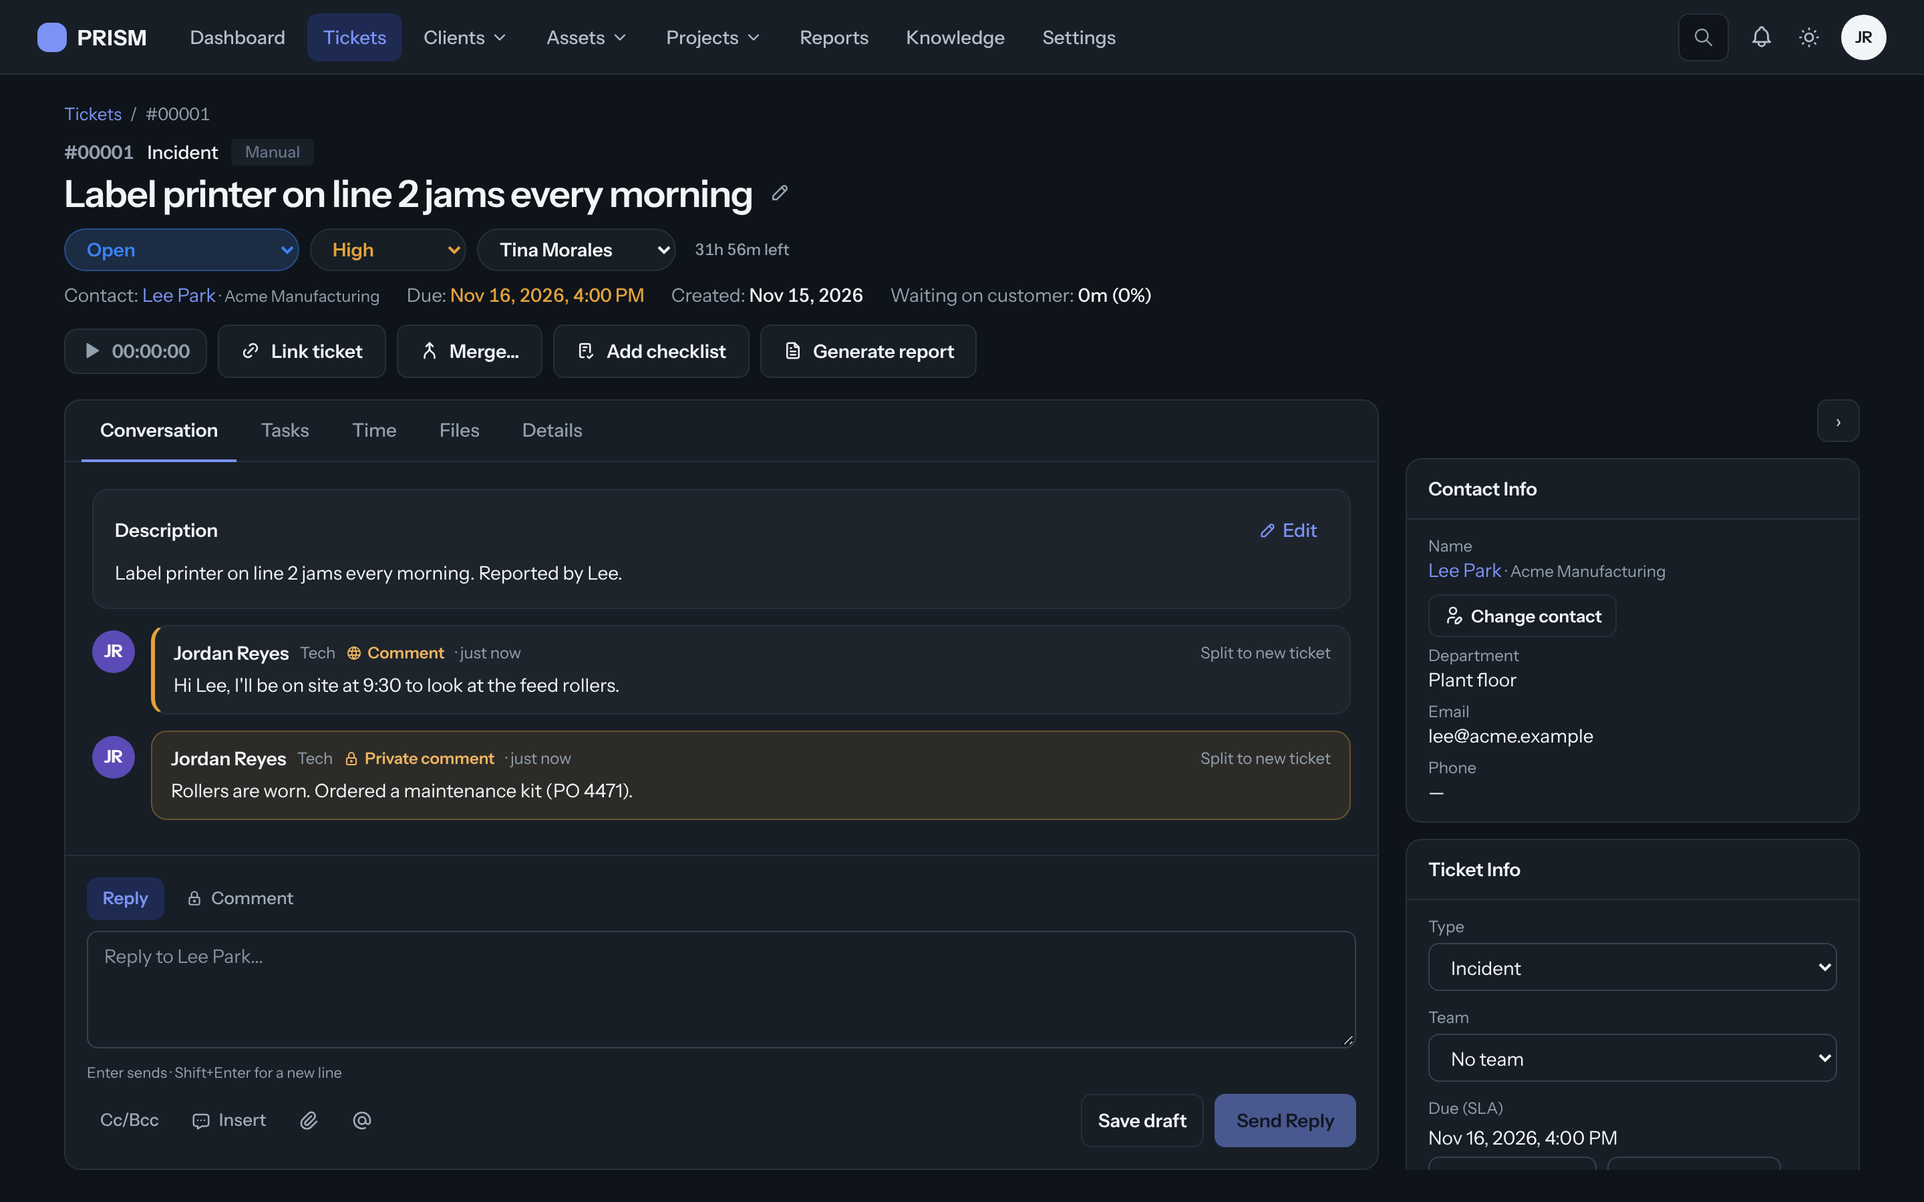
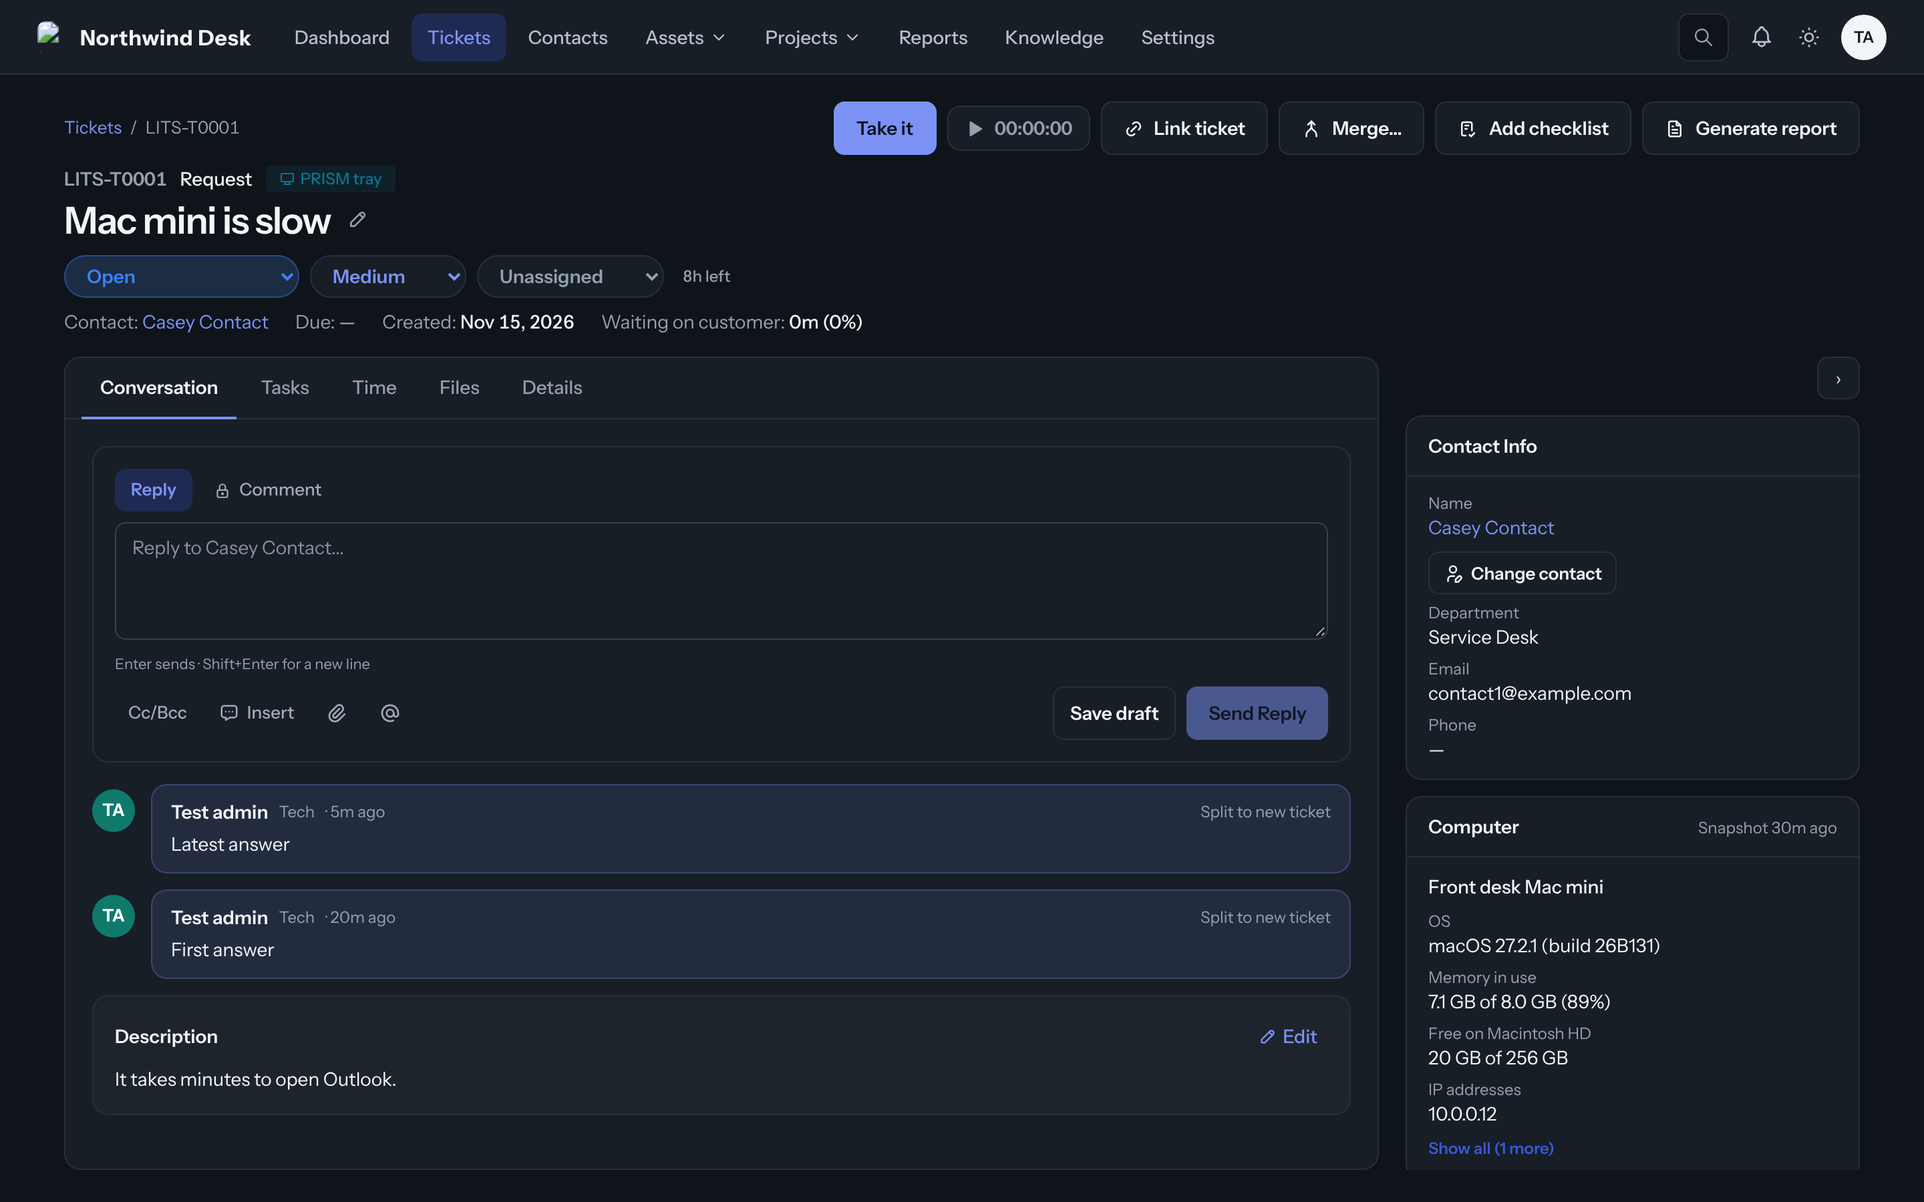
feat(tickets): the conversation reads newest first, with room to read it
The reply box sits at the top of the conversation and scrolls with it (no
longer pinned under the thread); messages run newest first, older ones load
at the bottom, and the description closes the thread. Take it, the timer and
the ticket actions move up beside the breadcrumb, freeing a row.

A tray ticket's health snapshot moves out of the thread into a Computer card
in the sidebar (the main lines, the rest behind Show all); the ticket carries
it as agentSnapshot for viewers who may read private notes.

Also: the merged-into banner shows the ticket's company number.

Claude-Session: https://claude.ai/code/session_01N1XSQJXfuiqSmw46Y3FNwN

diff --git a/frontend/src/pages/tickets/TicketDetail.jsx b/frontend/src/pages/tickets/TicketDetail.jsx
@@ -582,6 +582,24 @@ export default function TicketDetail() {
               Ticket info
             </button>
             <ActionsMenu items={headerActions} className="flex-shrink-0 md:hidden" />
+            {/* Desk: what you do with the ticket, beside the breadcrumb, so
+                the conversation below gets the room. */}
+            <div className="flex flex-wrap items-center justify-end gap-2 max-md:hidden">
+              {ticket.access?.canTake && (
+                <Button variant="primary" onClick={takeTicket} disabled={taking}>
+                  {taking ? 'Taking…' : 'Take it'}
+                </Button>
+              )}
+              {hasPermission('time.log') && (
+                <TimerButton kind="ticket" parentId={ticket.id} label={`${formatTicketId(ticket)} ${ticket.title}`} onStopRequest={setStoppedTimer} anyTask />
+              )}
+              {headerActions.map(({ label, icon: Icon, onSelect }) => (
+                <Button key={label} onClick={onSelect}>
+                  <Icon size={15} aria-hidden="true" />
+                  {label}
+                </Button>
+              ))}
+            </div>
           </div>
         </div>
         <div className="mt-2 flex flex-wrap items-center gap-x-2.5 gap-y-1.5 text-sm">
@@ -624,27 +642,17 @@ export default function TicketDetail() {
               </span>
             )}
           </div>
-          <div className="flex w-full flex-wrap items-center gap-2 md:w-auto">
+          {/* On a phone: Take it and the timer under the details (the rest are
+              in the ⋯ menu). On a desk they're up by the breadcrumb. */}
+          <div className="flex w-full flex-wrap items-center gap-2 md:hidden">
             {ticket.access?.canTake && (
               <Button variant="primary" onClick={takeTicket} disabled={taking}>
                 {taking ? 'Taking…' : 'Take it'}
               </Button>
             )}
             {hasPermission('time.log') && (
-              <TimerButton
-                kind="ticket"
-                parentId={ticket.id}
-                label={`${formatTicketId(ticket)} ${ticket.title}`}
-                onStopRequest={setStoppedTimer}
-                anyTask
-              />
+              <TimerButton kind="ticket" parentId={ticket.id} label={`${formatTicketId(ticket)} ${ticket.title}`} onStopRequest={setStoppedTimer} anyTask />
             )}
-            {headerActions.map(({ label, icon: Icon, onSelect }) => (
-              <Button key={label} onClick={onSelect} className="max-md:hidden">
-                <Icon size={15} aria-hidden="true" />
-                {label}
-              </Button>
-            ))}
           </div>
         </div>
       </header>
@@ -736,10 +744,11 @@ export default function TicketDetail() {
           </div>
 
           <div className="p-4 sm:p-5" style={{ flex: '1 1 auto', overflowY: 'auto', minHeight: 0 }}>
-            {/* The problem as it was raised opens the conversation. */}
+            {/* Newest first: the reply box, then the thread from the latest
+                message down, and the problem as it was raised at the bottom. */}
             {activeTab === 'conversation' && (
-              <div className="mb-3">
-                <DescriptionCard description={ticket.description} canEdit={isStaff && !!ticket.access?.edit} onSave={saveTicketText} />
+              <div className="mb-4">
+                <ReplyBox ticket={ticket} onSend={sendReply} fileRef={fileRef} onAttach={handleReplyAttach} isStaff={isStaff} canViewPrivateComments={canViewPrivateComments} collapsible={isPhone} />
               </div>
             )}
             {activeTab === 'conversation' && (
@@ -750,6 +759,11 @@ export default function TicketDetail() {
                 onLoadMore={() => setCommentLimit((n) => n + SUBLIST_STEP)}
                 onSplit={isStaff && ticket.access?.edit ? splitComment : undefined}
               />
+            )}
+            {activeTab === 'conversation' && (commentTotal <= comments.length) && (
+              <div className="mt-3">
+                <DescriptionCard description={ticket.description} canEdit={isStaff && !!ticket.access?.edit} onSave={saveTicketText} />
+              </div>
             )}
             {activeTab === 'time' && (
               <TimeLog
@@ -819,11 +833,6 @@ export default function TicketDetail() {
             )}
           </div>
 
-          {/* Sibling below the scrollable tab content, not inside it — stays
-              pinned to the bottom of the main content column. */}
-          {activeTab === 'conversation' && (
-            <ReplyBox ticket={ticket} onSend={sendReply} fileRef={fileRef} onAttach={handleReplyAttach} isStaff={isStaff} canViewPrivateComments={canViewPrivateComments} collapsible={isPhone} />
-          )}
         </div>
 
         <div className="hidden md:contents">

diff --git a/backend/test/smoke/ticketConversation.smoke.js b/backend/test/smoke/ticketConversation.smoke.js
@@ -1,0 +1,48 @@
+const { resetData, closeDb, models } = require('../integration/helpers');
+const { makeWorld, makeTicket } = require('../integration/fixtures');
+const { startSmoke } = require('./harness');
+
+// The conversation reads newest first: the reply box on top, then the latest
+// message, the oldest, and the description at the bottom. A tray ticket's
+// health snapshot is in the sidebar's Computer card, not the thread.
+
+let smoke;
+let ticket;
+const DESKTOP = { viewport: { width: 1440, height: 900 } };
+beforeAll(async () => {
+  smoke = await startSmoke();
+  await resetData();
+  const w = await makeWorld();
+  ticket = await makeTicket(w.admin.agent, {
+    title: 'Mac mini is slow', description: 'It takes minutes to open Outlook.', contactId: w.contact.id, departmentId: w.deptA.id,
+  });
+  await models.Ticket.update({ source: 'agent' }, { where: { id: ticket.id }, hooks: false });
+  const at = (min) => new Date(Date.now() - min * 60000);
+  await models.Comment.create({
+    ticketId: ticket.id, authorId: w.admin.user.id, type: 'comment_private', createdAt: at(30),
+    body: 'Health snapshot from Front desk Mac mini\nOS: macOS 27.2.1 (build 26B131)\nMemory in use: 7.1 GB of 8.0 GB (89%)\nFree on Macintosh HD: 20 GB of 256 GB\nBattery: not present\nIP addresses: 10.0.0.12',
+  });
+  await models.Comment.create({ ticketId: ticket.id, authorId: w.admin.user.id, type: 'reply', body: 'First answer', createdAt: at(20) });
+  await models.Comment.create({ ticketId: ticket.id, authorId: w.admin.user.id, type: 'reply', body: 'Latest answer', createdAt: at(5) });
+});
+afterAll(async () => { await smoke.stop(); await closeDb(); });
+
+it('reply box first, newest message next, description last; the snapshot is the Computer card', async () => {
+  const page = await smoke.pageAs('admin', undefined, DESKTOP);
+  await page.goto(`/tickets/${ticket.id}`);
+  await page.getByText('Latest answer').waitFor();
+  const order = await page.evaluate(() => {
+    const text = document.body.innerText;
+    return ['Save draft', 'Latest answer', 'First answer', 'It takes minutes to open Outlook.'].map((s) => text.indexOf(s));
+  });
+  expect(order.every((n) => n >= 0)).toBe(true);
+  expect([...order].sort((a, b) => a - b)).toEqual(order);
+  // Not in the thread; in the Computer card instead.
+  expect(await page.getByText('Health snapshot from').count()).toBe(0);
+  const card = page.getByRole('region', { name: 'Computer' });
+  await card.getByText('Front desk Mac mini').waitFor();
+  await card.getByText('macOS 27.2.1 (build 26B131)').waitFor();
+  expect(await card.getByText('Battery').count()).toBe(0);
+  await card.getByRole('button', { name: /Show all/ }).click();
+  await card.getByText('not present').waitFor();
+});

diff --git a/backend/src/controllers/tickets/shared.js b/backend/src/controllers/tickets/shared.js
@@ -16,6 +16,7 @@ const {
   SlaPolicy,
   TicketDueDateChange,
   Ticket,
+  Comment,
 } = require('../../models');
 const { toSlaView } = require('../../services/sla/slaView');
 const { ticketWaitingView } = require('../../services/ticketWaiting');
@@ -210,8 +211,32 @@ async function assertCanEditTicket(user, ticket) {
 // server re-checks every request).
 // The ticket as GET /tickets/:id returns it: the viewer's view, its access
 // flags, and on its SLA the due date history.
+// The PRISM agent's health snapshot (a private note "Health snapshot from
+// <computer>" of "Label: value" lines), for the ticket's sidebar rather than
+// the conversation. Only for viewers who may read private notes.
+const SNAPSHOT_PREFIX = 'Health snapshot from ';
+async function agentSnapshotFor(viewer, ticket) {
+  if (ticket.source !== 'agent') return null;
+  if (!(await hasPermission(viewer.id, 'tickets.view_private_comments'))) return null;
+  const note = await Comment.findOne({
+    where: { ticketId: ticket.id, type: 'comment_private', body: { [Op.startsWith]: SNAPSHOT_PREFIX } },
+    attributes: ['id', 'body', 'createdAt'],
+    order: [['id', 'ASC']],
+  });
+  if (!note) return null;
+  const [first, ...rest] = String(note.body).split('\n');
+  const items = rest.map((l) => {
+    const at = l.indexOf(': ');
+    return at > 0 ? { label: l.slice(0, at), value: l.slice(at + 2) } : null;
+  }).filter(Boolean);
+  return {
+    commentId: note.id, createdAt: note.createdAt, computer: first.slice(SNAPSHOT_PREFIX.length), items,
+  };
+}
+
 async function ticketDetailFor(viewer, ticket) {
   const json = await shownTicketFor(viewer, ticket);
+  json.agentSnapshot = await agentSnapshotFor(viewer, ticket);
   if (ticket.sla) {
     const changes = await TicketDueDateChange.findAll({
       where: { ticketId: ticket.id },
@@ -226,7 +251,7 @@ async function ticketDetailFor(viewer, ticket) {
   json.mergedInto = null;
   if (ticket.mergedIntoId) {
     const into = await Ticket.findByPk(ticket.mergedIntoId, { attributes: ['id', 'number', 'title', 'companyId', 'departmentId', 'assigneeId'] });
-    if (into) json.mergedInto = (await canAccessTicket(viewer, into)) ? { id: into.id, title: into.title } : { id: into.id };
+    if (into) json.mergedInto = (await canAccessTicket(viewer, into)) ? { id: into.id, ticketNumber: into.number, title: into.title } : { id: into.id, ticketNumber: into.number };
   }
   return { ...json, access: await ticketAccessFor(viewer, ticket) };
 }
@@ -247,6 +272,7 @@ module.exports = {
   assertCanEditTicket,
   shownTicketFor,
   ticketDetailFor,
+  SNAPSHOT_PREFIX,
   ticketAccessFor,
   ticketInclude,
   withCustomFields,

diff --git a/backend/test/integration/agent.tray.test.js b/backend/test/integration/agent.tray.test.js
@@ -1,6 +1,7 @@
 const Sequelize = require('sequelize');
 const {
   resetData, closeDb, models, getApp, sequelize,
+  createUserAndLogin, ROLE,
 } = require('./helpers');
 const { makeWorld, makeCompany } = require('./fixtures');
 const { resetRateLimits } = require('../../src/middleware/rateLimit');
@@ -192,4 +193,23 @@ it('round trip: down removes the mark and keeps the contacts; up puts the column
   expect(Number(rows[0].n)).toBe(1);
   await migration.up(qi, Sequelize);
   expect((await qi.describeTable('Contacts')).isPlaceholder).toBeDefined();
+});
+
+it('the ticket carries the snapshot for its sidebar, only for those who may read private notes', async () => {
+  await contactIn(company, 'maria.chen@riversideclinic.org');
+  const res = await device.post(TICKETS, ask());
+  const { ticket } = (await w.admin.agent.get(`/api/v1/tickets/${res.body.ticketId}`)).body;
+  const note = await models.Comment.findOne({ where: { ticketId: res.body.ticketId } });
+  expect(ticket.agentSnapshot).toEqual(expect.objectContaining({ commentId: note.id, computer: expect.any(String) }));
+  const byLabel = Object.fromEntries(ticket.agentSnapshot.items.map((i) => [i.label, i.value]));
+  expect(byLabel).toEqual(expect.objectContaining({
+    OS: 'Windows 11 Pro 24H2 (build 26100.2314)', 'Memory in use': '11.0 GB of 16.0 GB (69%)', 'Free on C:': '212 GB of 476 GB', 'IP addresses': '10.20.1.45',
+  }));
+  // A ticket made by hand has none.
+  const own = (await w.admin.agent.post('/api/v1/tickets').send({ title: 'By hand', contactId: w.contact.id })).body.ticket;
+  expect((await w.admin.agent.get(`/api/v1/tickets/${own.id}`)).body.ticket.agentSnapshot).toBeNull();
+  // Read Only can't see private notes: no snapshot either.
+  const viewer = await createUserAndLogin({ username: 'viewer', roleName: ROLE.READ_ONLY, departmentId: w.deptA.id });
+  const seen = await viewer.agent.get(`/api/v1/tickets/${res.body.ticketId}`);
+  if (seen.status === 200) expect(seen.body.ticket.agentSnapshot).toBeNull();
 });

diff --git a/frontend/src/pages/tickets/detail/ComputerCard.jsx b/frontend/src/pages/tickets/detail/ComputerCard.jsx
@@ -1,0 +1,40 @@
+// The PRISM agent's health snapshot of the computer a tray ticket came from:
+// the lines a tech looks at first, the rest one click away. Out of the
+// conversation, so the thread is only what people wrote.
+import { useState } from 'react';
+import { MUTED, TEXT, timeAgo } from '../theme';
+
+const FIRST = ['OS', 'Memory in use', 'Uptime', 'Signed in', 'IP addresses'];
+
+export default function ComputerCard({ snapshot }) {
+  const [all, setAll] = useState(false);
+  if (!snapshot) return null;
+  const items = snapshot.items || [];
+  const isFirst = (i) => FIRST.includes(i.label) || (/^Free on /.test(i.label) && items.find((x) => /^Free on /.test(x.label)) === i);
+  const shown = all ? items : items.filter(isFirst);
+  const more = items.length - items.filter(isFirst).length;
+  return (
+    <section className="rounded-xl border border-navy-100 bg-surface" aria-label="Computer">
+      <div className="flex items-baseline justify-between gap-2 border-b border-navy-100 px-4 py-3">
+        <h3 className="text-sm font-semibold text-navy-900">Computer</h3>
+        <span className="text-xs" style={{ color: MUTED }} title="When the PRISM agent took this snapshot">Snapshot {timeAgo(snapshot.createdAt)}</span>
+      </div>
+      <div className="px-4 py-3">
+        <p className="mb-2 break-words text-sm font-medium" style={{ color: TEXT }}>{snapshot.computer}</p>
+        <dl className="space-y-1.5 text-sm">
+          {shown.map((i) => (
+            <div key={i.label}>
+              <dt className="text-xs" style={{ color: MUTED }}>{i.label}</dt>
+              <dd className="break-words" style={{ color: TEXT }}>{i.value}</dd>
+            </div>
+          ))}
+        </dl>
+        {more > 0 && (
+          <button type="button" onClick={() => setAll((v) => !v)} className="mt-2 text-xs font-semibold text-prism hover:underline">
+            {all ? 'Show less' : `Show all (${more} more)`}
+          </button>
+        )}
+      </div>
+    </section>
+  );
+}

diff --git a/frontend/src/pages/tickets/detail/ConversationTab.jsx b/frontend/src/pages/tickets/detail/ConversationTab.jsx
@@ -1,4 +1,6 @@
-// Conversation tab: the comment thread.
+// Conversation tab: the comment thread, newest first (the reply box sits
+// above it); older messages load at the bottom. The PRISM agent's health
+// snapshot isn't a message: it's in the sidebar's Computer card.
 import { IconLock, IconWorld, IconMail } from '@tabler/icons-react';
 import LoadMore from '../../../components/LoadMore';
 import Avatar from '../../../components/ui/Avatar';
@@ -9,13 +11,11 @@ import { TEXT, MUTED, timeAgo } from '../theme';
 export function ConversationTab({
   ticket, comments, total, onLoadMore, onSplit,
 }) {
+  const shown = [...comments].reverse().filter((c) => !(ticket.agentSnapshot && c.id === ticket.agentSnapshot.commentId));
   return (
     <div className="space-y-3">
-      {/* Older messages sit above the thread, where they'd be if they were
-          already loaded. */}
-      <LoadMore loaded={comments.length} total={total} onLoadMore={onLoadMore} noun="messages" />
-      {comments.length === 0 && <p className="text-sm" style={{ color: MUTED }}>No messages yet.</p>}
-      {comments.map((c) => {
+      {shown.length === 0 && <p className="text-sm" style={{ color: MUTED }}>No messages yet.</p>}
+      {shown.map((c) => {
         // A customer reply (portal or email) is marked; a portal reply also
         // names the contact who wrote it.
         const isCustomer = !!c.fromCustomer || !!c.authorContact || c.authorId === ticket.requesterId;
@@ -75,6 +75,8 @@ export function ConversationTab({
           </div>
         );
       })}
+      {/* Older messages are below, where they'd be if they were already loaded. */}
+      <LoadMore loaded={comments.length} total={total} onLoadMore={onLoadMore} noun="messages" />
     </div>
   );
 }

diff --git a/frontend/src/pages/tickets/detail/ReplyBox.jsx b/frontend/src/pages/tickets/detail/ReplyBox.jsx
@@ -12,6 +12,9 @@ import CannedPicker from '../../../components/CannedPicker';
 export function ReplyBox({
   ticket, onSend, fileRef, onAttach, isStaff, canViewPrivateComments, collapsible = false,
 }) {
+  // It sits at the top of the conversation, above the newest message, and
+  // scrolls with it (not pinned under the thread).
+  const box = 'rounded-xl border border-navy-100 bg-surface';
   const draftKey = `prism.ticket.${ticket.id}.draft`;
   const [text, setText] = useState(() => { try { return localStorage.getItem(draftKey) || ''; } catch { return ''; } });
   const [mode, setMode] = useState('reply'); // 'reply' | 'comment'
@@ -76,7 +79,7 @@ export function ReplyBox({
 
   if (!open) {
     return (
-      <div className="flex-shrink-0 border-t border-navy-100 bg-surface p-3">
+      <div className={`${box} p-3`}>
         {/* Looks like a one-line field; it is the button that opens the composer. */}
         <button
           type="button"
@@ -92,7 +95,7 @@ export function ReplyBox({
   }
 
   return (
-    <div className="flex-shrink-0 border-t border-navy-100 bg-surface p-3 sm:p-4">
+    <div className={`${box} p-3 sm:p-4`}>
       {(isStaff || collapsible) && (
         <div className="mb-2 flex flex-wrap items-center justify-between gap-2">
           {isStaff ? (

diff --git a/backend/test/integration/tickets.merge.test.js b/backend/test/integration/tickets.merge.test.js
@@ -209,8 +209,8 @@ describe('POST /tickets/:id/merge', () => {
     const s = await ticket({ assigneeId: olly.user.id });
     expectOk(await merge(w.admin.agent, target.id, [s.id]));
     expect(expectOk(await w.admin.agent.get(`${API}/tickets/${s.id}`)).ticket.mergedInto)
-      .toEqual({ id: target.id, title: 'Secret target' });
-    expect(expectOk(await olly.agent.get(`${API}/tickets/${s.id}`)).ticket.mergedInto).toEqual({ id: target.id });
+      .toEqual({ id: target.id, ticketNumber: target.ticketNumber, title: 'Secret target' });
+    expect(expectOk(await olly.agent.get(`${API}/tickets/${s.id}`)).ticket.mergedInto).toEqual({ id: target.id, ticketNumber: target.ticketNumber });
     expect(expectOk(await w.admin.agent.get(`${API}/tickets/${target.id}`)).ticket.mergedInto).toBeNull();
   });
 

diff --git a/frontend/src/pages/tickets/detail/Sidebar.jsx b/frontend/src/pages/tickets/detail/Sidebar.jsx
@@ -10,6 +10,7 @@ import TimeDropdownPicker from '../../../components/TimeDropdownPicker';
 import CategoryPicker from '../../../components/CategoryPicker';
 import { forTicketType } from '../../../components/categoryTree';
 import SlaPanel from './SlaPanel';
+import ComputerCard from './ComputerCard';
 import ContactPicker from '../../../components/portal/ContactPicker';
 import CcPanel from './CcPanel';
 import DueDateModal from './DueDateModal';
@@ -342,6 +343,7 @@ export function Sidebar({
             </>
           )}
         </SidebarSection>
+        {!collapsed && <ComputerCard snapshot={ticket.agentSnapshot} />}
 
         <SidebarSection title="Ticket Info" collapsed={collapsed}>
           {collapsed ? (
